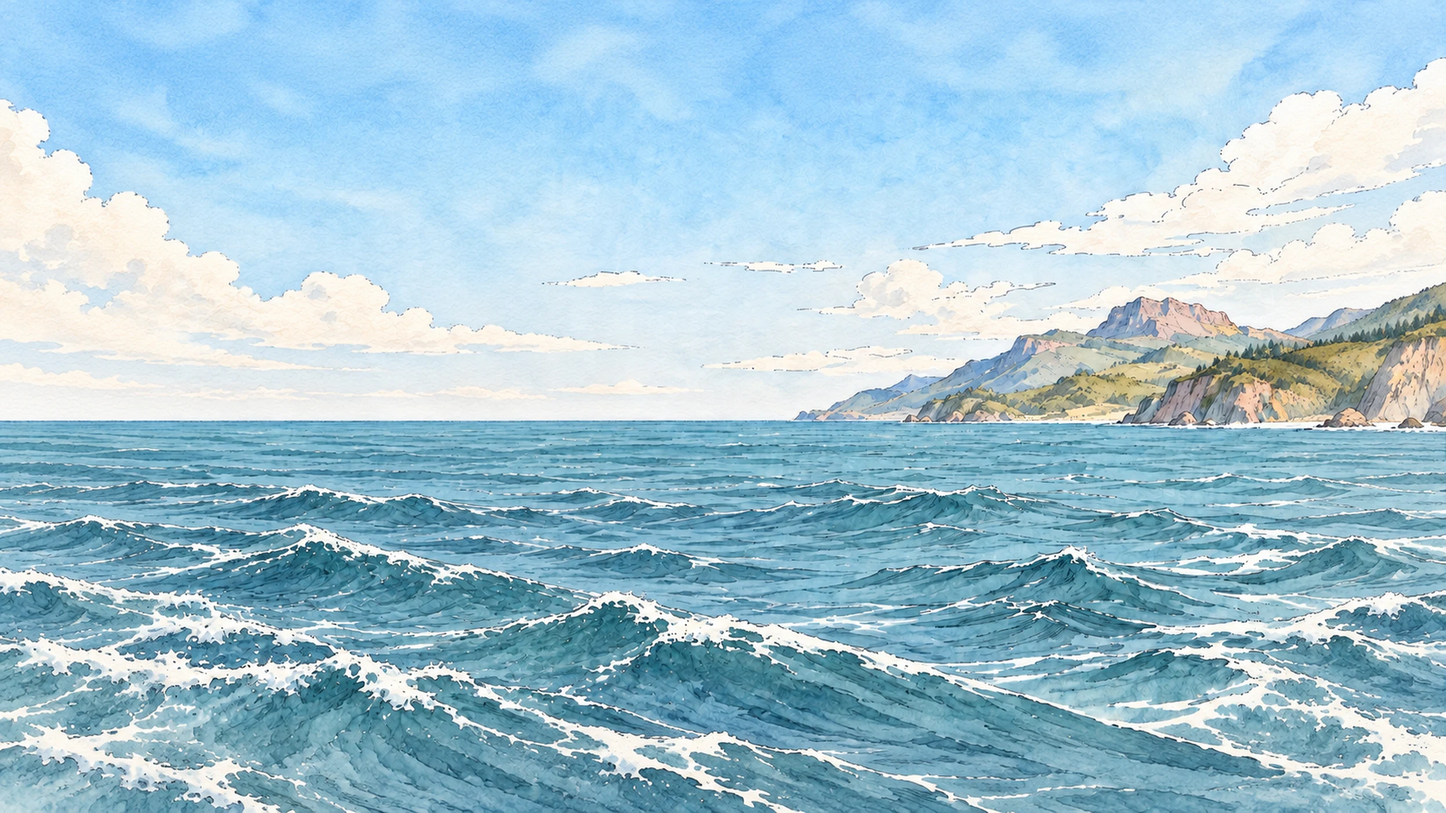
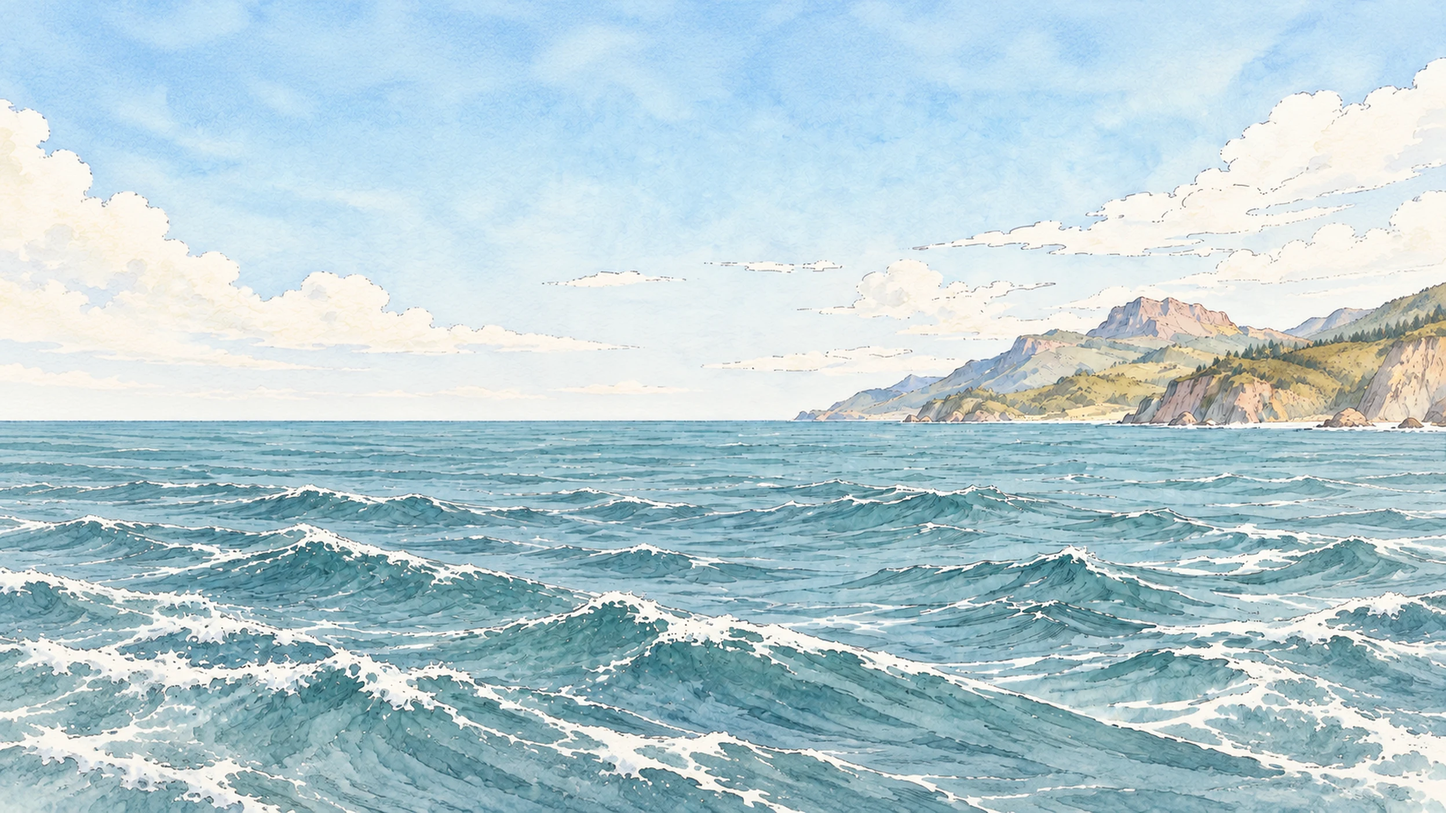
feat(look): the cast: Visscher and a pointing sailor beside Tasman
The shot's figures are now a CAST list, each one painted cutout made 3D
(Hunyuan3D-Omni + paint_front), placed on the deck, turned to the camera.
Visscher from his cast-sheet three-quarter view, repainted by ChatGPT in
Tasman's watercolour + pencil style (outline IoU 0.985, so the shape still
fits); the pointing sailor is a new pose ChatGPT drew from the sailor sheet.
tools/artkit/paint_prep.py: crop to the figure + the bled paint image.
The overscan plate's colours are matched back to the clean plate (the
outpainting had darkened the sea).

diff --git a/engine-mvp/src/engine/frame-match.js b/engine-mvp/src/engine/frame-match.js
@@ -4,7 +4,7 @@
 // Hunyuan3D-Omni with that picture painted back on (render PC). Tuning from the console: window.__shot.
 //   ?scene=spyglass[&actor=<glb>][&ship=0][&look=<preset>]   ship=0: the box deck and rail in place of the Heemskerck
 //   model; look: a Look preset by name, e.g. 'History Lines pencil' or 'Day', or 'off' (none: the look stays as saved);
-//   &hide=tasman renders the set alone (the frame a painter repaints for the ship's projected paint);
+//   &hide=tasman renders the set alone, no figures (the frame a painter repaints for the ship's projected paint);
 //   &paint=ship lays that repainted frame on the ship, projected from the shot camera (matte painting);
 //   &move=dx,dy,dz[,yawDeg] moves the camera AFTER everything is placed and painted (does the paint hold?);
 //   &overscan=1 renders the paint frame with PAINT_OVERSCAN wider view (with hide=tasman: the frame to repaint)
@@ -19,13 +19,20 @@
   // a clean plate of the panel itself (ChatGPT removed ship and people, then painted it out 15 % on every side):
   // same sky, sea, coast and horizon, 1.3 x the shot's view so camera moves stay covered
   const PLATE = { url: 'assets/plates/tasman-spyglass-clean-os130.webp', horizon: 1 - 0.5155, fit: 'view', scale: 1.3 };
-  const TASMAN = { name: 'Tasman (test)', url: params.get('actor') || 'assets/models/tasman-spyglass.glb', height: 1.8 };
   // measured on the panel (16:9): horizon at 52 % down, Tasman from 21 % (hat) to the bottom edge, centred at 32 %
   // across. With a 40 degree vertical field of view that is an eye 1.1 m above the deck, Tasman 2.85 m away and
   // 0.66 m left of centre (a sailor's low view), tilted up a little so the horizon sits just below the middle.
   const CAMERA = { position: [0, 1.1, 0], target: [0, 1.24, 10], fov: 0.7 };
-  // turned to face the camera exactly: the picture was painted from the front, the sides only carry smeared paint
-  const TASMAN_AT = { x: -0.66, z: 2.85, turn: (Math.atan2(0.66, -2.85) * 180) / Math.PI };
+  // The cast: each figure is ONE painted cutout made 3D (Hunyuan3D-Omni + tools/artkit/blender/paint_front.py),
+  // standing on the deck and turned to face the camera exactly (painted from the front; the sides carry smeared
+  // paint). Tasman: measured on the panel above. Visscher: nearer, to his left (panel: the man in the green coat).
+  // The sailor: at the rail (2.75 m out from the centre line) behind Tasman's right shoulder, pointing at the coast.
+  const CAST = [
+    { key: 'tasman', name: 'Tasman (test)', url: params.get('actor') || 'assets/models/tasman-spyglass.glb', height: 1.8, x: -0.66, z: 2.85 },
+    { key: 'visscher', name: 'Visscher (test)', url: 'assets/models/visscher.glb', height: 1.75, x: -1.25, z: 2.4 },
+    { key: 'sailor', name: 'Sailor pointing (test)', url: 'assets/models/sailor-pointing.glb', height: 1.72, x: -0.33, z: 3.29 },
+  ];
+  const facing = (x, z) => (Math.atan2(-x, -z) * 180) / Math.PI;   // degrees that turn a figure's front to the camera
   // the Heemskerck: Sketchfab "dutch ship large" by TegnoGenial (CC-BY-4.0), 34 m, via tools/artkit/blender/ship_glb.py.
   // Its main deck is 4.61 m above the keel at midships (measured in the Studio: y=0 from 3 m aft to 3 m forward of
   // midships; the stern deck rises from 6 m aft); bow along the model's +X. Stood with its starboard rail
@@ -196,16 +203,27 @@
     aimCamera();
     const set = buildSet();
     mvp.setPlate(PLATE.url, { horizon: PLATE.horizon, fit: PLATE.fit, scale: PLATE.scale, floorY: useShip ? -SHIP.deckY : 0 });
-    mvp.CATALOG.push(TASMAN);
-    mvp.addFromCatalog(TASMAN, { x: TASMAN_AT.x, z: TASMAN_AT.z, turn: TASMAN_AT.turn }).then((tasman) => {
+    const hidden = params.get('hide') === 'tasman';   // the set alone: no figure in the frame to repaint
+    const cast = Promise.all(CAST.map(async (c) => {
+      try {
+        mvp.CATALOG.push(c);
+        const root = await mvp.addFromCatalog(c, { x: c.x, z: c.z, turn: facing(c.x, c.z) });
+        root.position.set(c.x, 0, c.z);   // exact, not on the placement grid
+        paintedLight(root);
+        if (hidden) root.setEnabled(false);
+        return [c.key, root];
+      } catch (e) {
+        console.error('frame-match: could not load', c.name, e);
+        return [c.key, null];
+      }
+    }));
+    cast.then((loaded) => {
       mvp.select(null);
-      tasman.position.set(TASMAN_AT.x, 0, TASMAN_AT.z);   // exact, not on the placement grid
-      if (params.get('hide') === 'tasman') tasman.setEnabled(false);
       // the overscanned paint frame: same eye, wider view (after the plate and the paint were placed for the shot)
       if (params.get('overscan')) shipReady.then(() => { mvp.camera.fov = 2 * Math.atan(Math.tan(CAMERA.fov / 2) * PAINT_OVERSCAN); });
-      paintedLight(tasman);
-      window.__shot = { tasman, set, ship: shipPivot, camera: mvp.camera, aimCamera, CAMERA, TASMAN_AT, RAIL, SHIP };
+      const figures = Object.fromEntries(loaded);
+      window.__shot = { ...figures, tasman: figures.tasman, set, ship: shipPivot, camera: mvp.camera, aimCamera, CAMERA, CAST, RAIL, SHIP };
       shipReady.then(() => { if (params.get('move')) moveCamera(params.get('move')); });
-    }, (e) => console.error('frame-match: could not load Tasman', e));
+    });
   });
 })();

diff --git a/tools/artkit/paint_prep.py b/tools/artkit/paint_prep.py
@@ -1,0 +1,49 @@
+"""A painted cutout -> the two inputs of the figure route (comic-look, 2026-10-13).
+
+  python3 paint_prep.py CUTOUT_RGBA.png OUT_PREFIX [--size 2048]
+writes OUT_PREFIX_rgba.png  the figure cropped to its alpha, for Hunyuan3D-Omni (shape)
+       OUT_PREFIX_paint.png the same picture with the background filled by the figure's own colours, for
+                            blender/paint_front.py: the mesh's sides sample those instead of the drawn outline
+                            (an 8 px ring of the outline is dropped before the colour spreads outward)
+"""
+import argparse
+
+import cv2
+import numpy as np
+from PIL import Image
+
+OUTLINE_PX = 8          # drawn contour width to leave out of the bleed, at 2048 px
+INPAINT_SCALE = 0.25    # the fill is smooth, so it is computed on a quarter-size copy
+
+
+def main() -> None:
+    ap = argparse.ArgumentParser()
+    ap.add_argument("cutout")
+    ap.add_argument("prefix")
+    ap.add_argument("--size", type=int, default=2048)
+    a = ap.parse_args()
+
+    im = Image.open(a.cutout).convert("RGBA")
+    bbox = im.getchannel("A").point(lambda v: 255 if v > 20 else 0).getbbox()
+    if not bbox:
+        raise SystemExit(f"{a.cutout}: no figure (alpha is empty)")
+    im = im.crop(bbox)
+    scale = a.size / max(im.size)
+    im = im.resize((round(im.width * scale), round(im.height * scale)), Image.LANCZOS)
+    im.save(f"{a.prefix}_rgba.png")
+
+    arr = np.asarray(im)
+    rgb, alpha = np.ascontiguousarray(arr[..., :3]), arr[..., 3]
+    ring = OUTLINE_PX * 2 + 1
+    inner = cv2.erode((alpha > 128).astype(np.uint8), np.ones((ring, ring), np.uint8))
+    small = cv2.resize(rgb, None, fx=INPAINT_SCALE, fy=INPAINT_SCALE, interpolation=cv2.INTER_AREA)
+    holes = cv2.resize((1 - inner) * 255, (small.shape[1], small.shape[0]), interpolation=cv2.INTER_NEAREST)
+    fill = cv2.inpaint(small, holes.astype(np.uint8), 6, cv2.INPAINT_TELEA)
+    fill = cv2.resize(fill, (rgb.shape[1], rgb.shape[0]), interpolation=cv2.INTER_CUBIC)
+    paint = np.where((alpha > 128)[..., None], rgb, fill)
+    Image.fromarray(paint).save(f"{a.prefix}_paint.png")
+    print(f"PREP ok {a.prefix}_rgba.png {a.prefix}_paint.png {im.size}")
+
+
+if __name__ == "__main__":
+    main()
